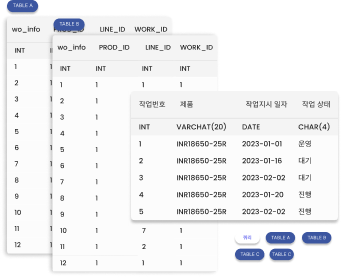
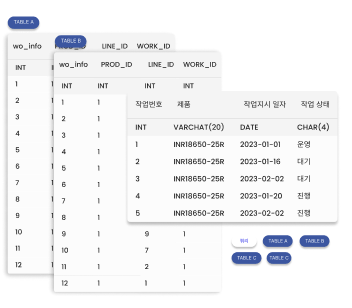
carousel수정

diff --git a/APP/mesc-app/src/components/introComponent/OnBoardingItem.styles.ts b/APP/mesc-app/src/components/introComponent/OnBoardingItem.styles.ts
@@ -14,19 +14,14 @@ export const Container = styled.View`
 export const ImageBox = styled.View`
   width: 100%;
   height: 300px;
-  // background-color: yellow;
   align-items: center;
   justify-content: center;
 `;
 
 export const Img = styled(Image)`
   width: 100%;
-  height: 300px;
-  // background-color: blue;
-  border-radius: 10px;
   margin-bottom: 20px;
-  // align-items: center;
-  // justify-content: center;
+  resizemode: contain;
 `;
 
 export const View = styled.View`
